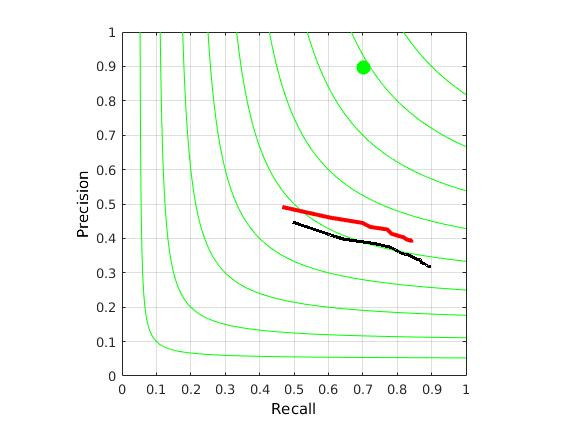
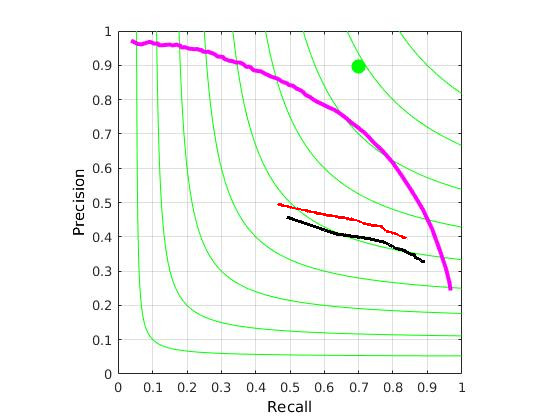
la grafica no estab completa

diff --git a/lab5_bsds/Report/Report.tex b/lab5_bsds/Report/Report.tex
@@ -254,7 +254,7 @@ Metodo & ODS & OID & AreaPR  \\
 \hline	
 LAB+xy GMM & F( 0.78, 0.38 ) = 0.51  & F( 0.80, 0.45 ) = 0.58 & 0.27 \\
 HSB+xy GMM &  &  &  \\
-UCM &  &  &  \\
+UCM & F( 0.72, 0.70 ) = 0.71  & F( 0.77, 0.71 ) = 0.74 &  0.73\\
 \end{tabular}
 \label{table:thetable}
 \end{table*}
